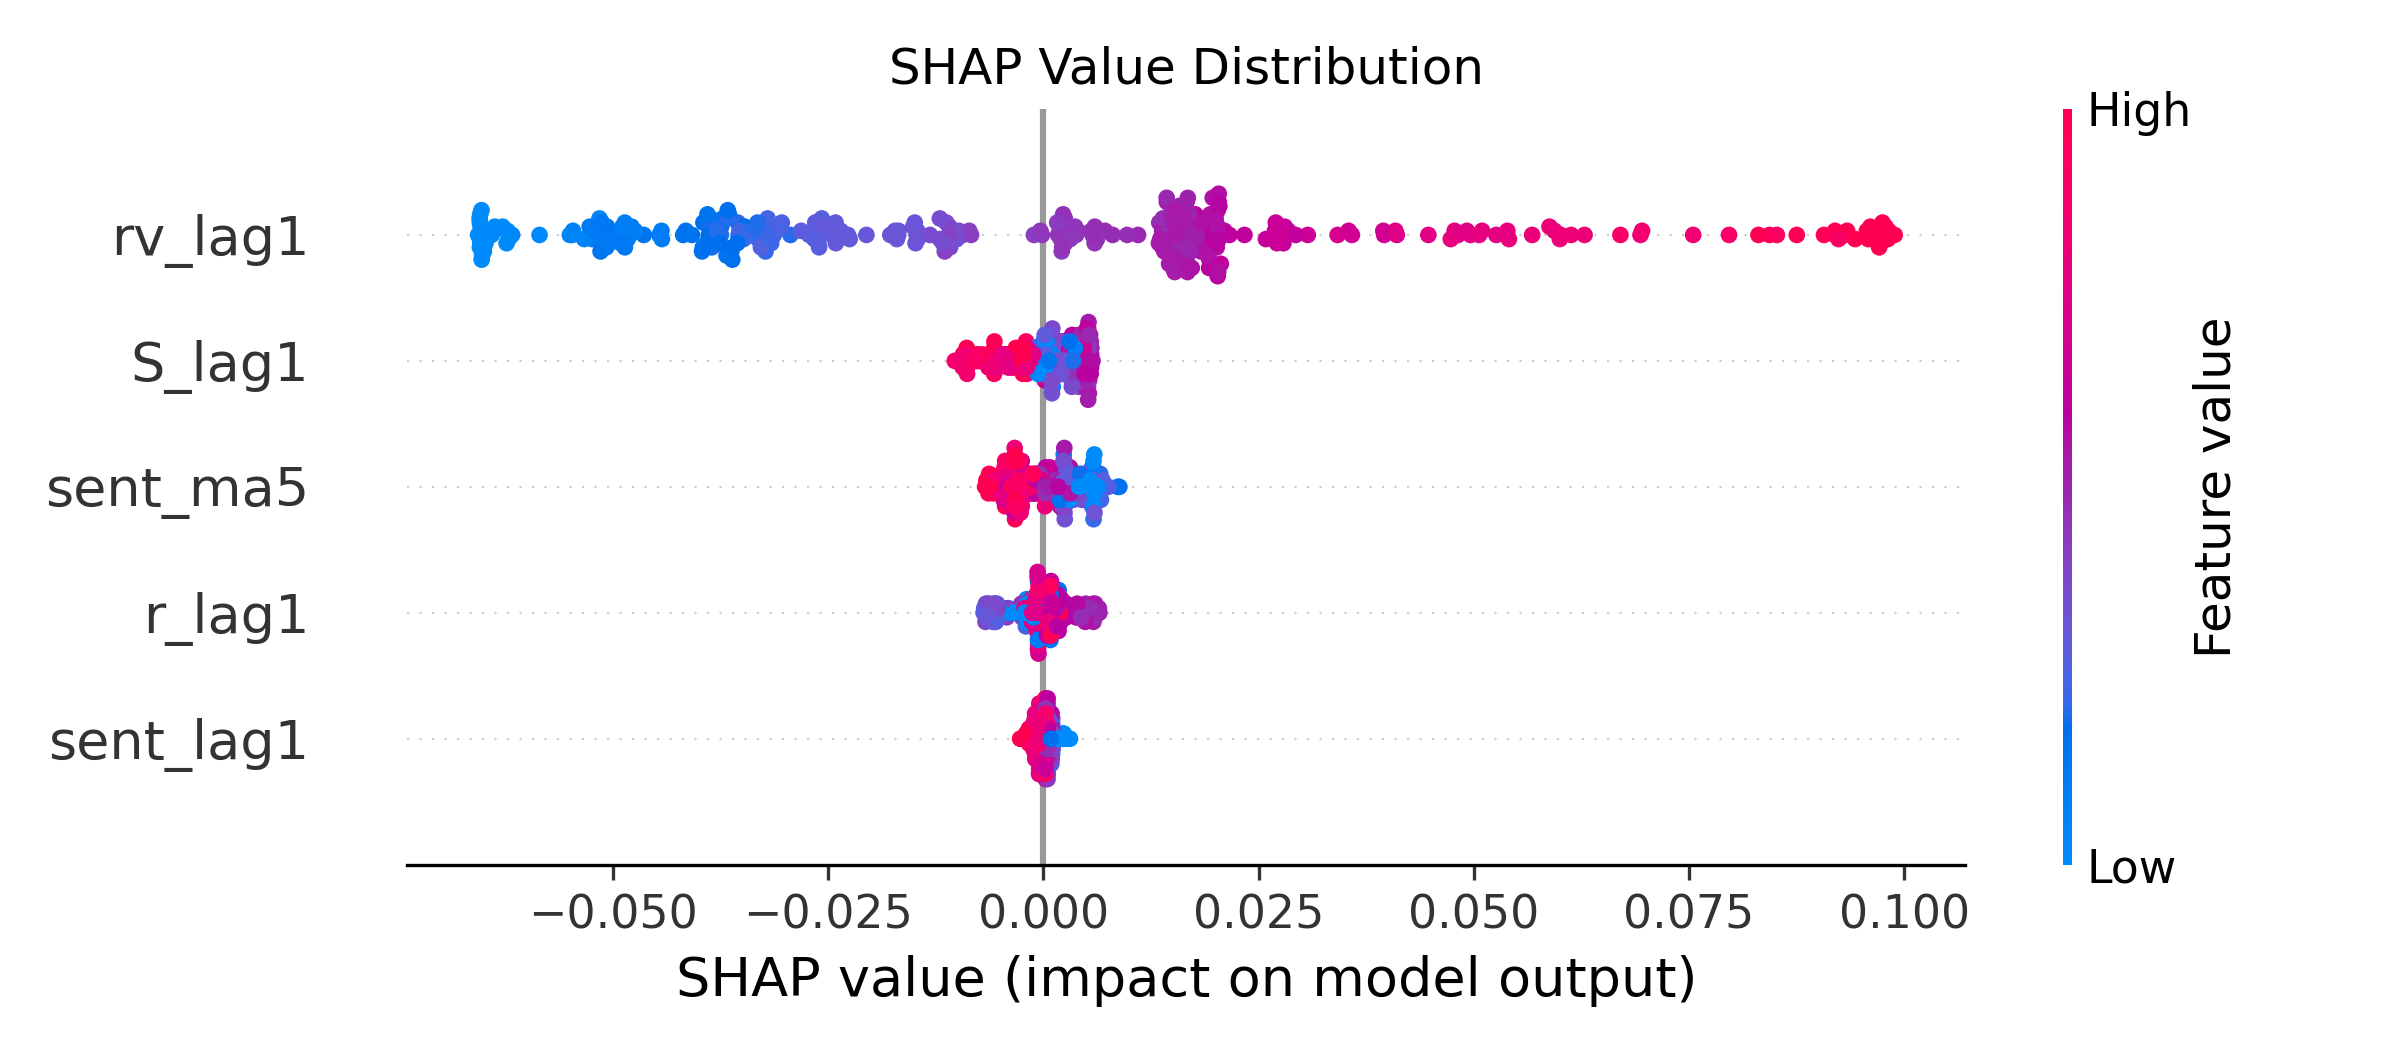
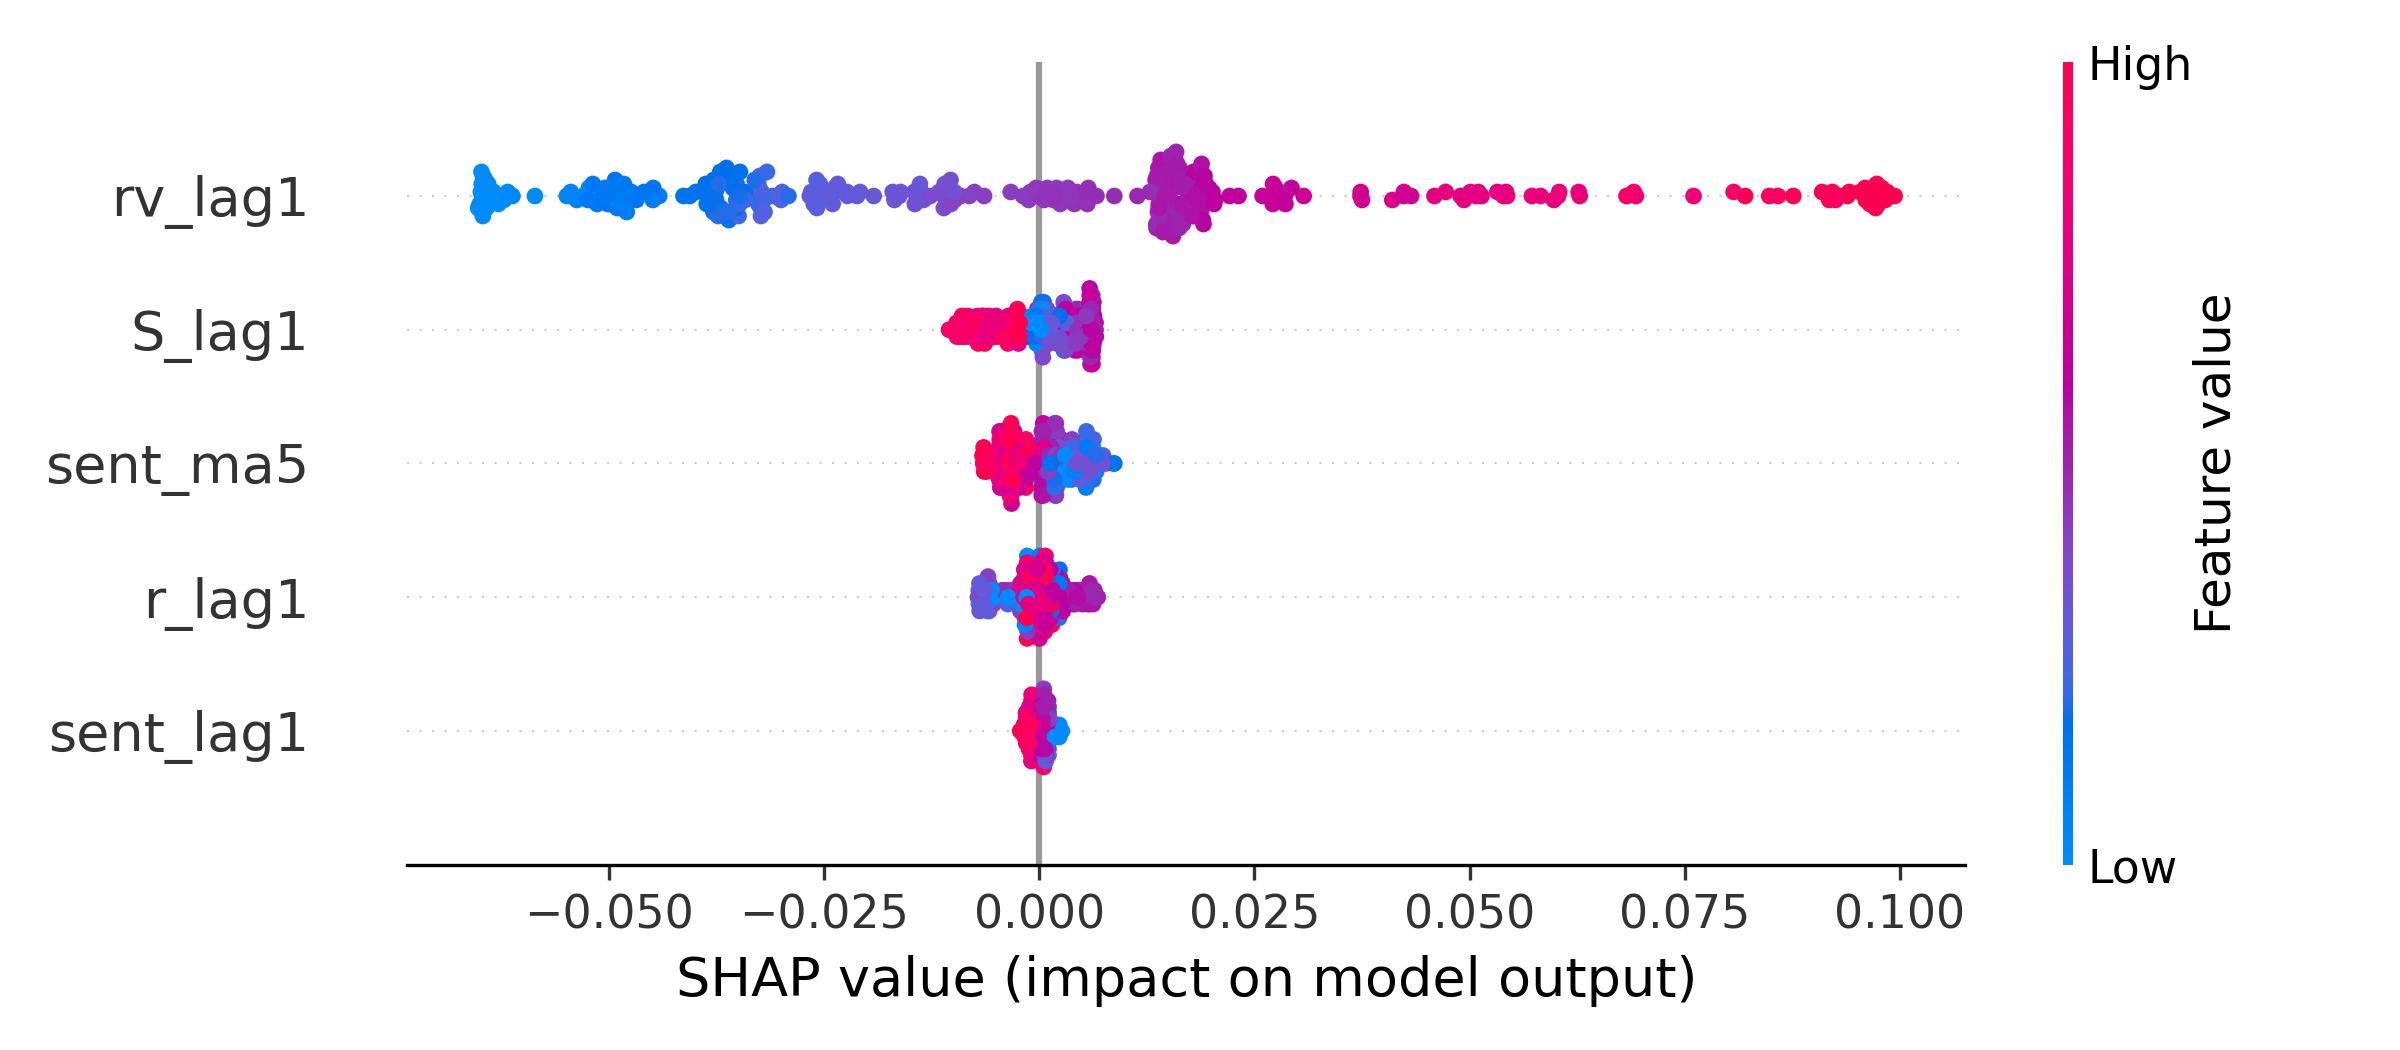
revised wk5-6 and wk7 deliverables

diff --git a/src/machine_learning.py b/src/machine_learning.py
@@ -1,7 +1,5 @@
-# Week 5 & 6 Volatility Forecasting & Forward Option Pricing
 import pandas as pd
 import numpy as np
-import sys
 import os
 import random
 import pickle
@@ -35,7 +33,7 @@ DIR_THRESHOLD = 0.001
 TEST_SIZE = 0.3
 GAP_DAYS = ROLLING_WINDOW
 
-for directory in ["models", "plots", "cv_results", "metadata"]:
+for directory in ["models", "plots", "cv_results", "metadata", "reports"]:
     os.makedirs(directory, exist_ok=True)
 
 df = pd.read_csv("data/processed_data.csv")
@@ -44,6 +42,7 @@ df["date"] = pd.to_datetime(df["date"])
 
 df["rolling_vol"] = df["return"].rolling(ROLLING_WINDOW).std() * np.sqrt(TRADING_DAYS)
 df["target_vol_t1"] = df["rolling_vol"].shift(-1)
+df["rv_lag1"] = df["rolling_vol"].shift(1)
 
 def black_scholes_vec(S, K, T, r, sigma):
     S = np.asarray(S, dtype=float)
@@ -58,8 +57,9 @@ def black_scholes_vec(S, K, T, r, sigma):
     
     return np.where(invalid, np.nan, price)
 
-df["synthetic_oracle_price"] = black_scholes_vec(
-    df["S"], STRIKE, T_MATURITY, df["r"], df["rolling_vol"]
+# 修正：基准BSM价格（历史波动率，非Oracle）
+df["benchmark_bsm_price"] = black_scholes_vec(
+    df["S"], STRIKE, T_MATURITY, df["r"], df["rv_lag1"]
 )
 df = df.dropna().reset_index(drop=True)
 
@@ -148,7 +148,7 @@ imp_df = pd.DataFrame({
 print(imp_df)
 
 print("\nTwo-Step Option Pricing Performance")
-benchmark_prices = df_test['synthetic_oracle_price']
+benchmark_prices = df_test['benchmark_bsm_price']
 predicted_prices = black_scholes_vec(
     df_test["S"], STRIKE, T_MATURITY, df_test["r"], best_base_vol_pred
 )
@@ -156,8 +156,8 @@ pricing_mse = mean_squared_error(benchmark_prices, predicted_prices)
 print(f"Pricing MSE: {pricing_mse:.6f}")
 
 print("\nEnd-to-End Option Pricing Model Performance")
-y_e2e_train = df_train['synthetic_oracle_price']
-y_e2e_test = df_test['synthetic_oracle_price']
+y_e2e_train = df_train['benchmark_bsm_price']
+y_e2e_test = df_test['benchmark_bsm_price']
 
 lr_e2e = LinearRegression()
 lr_e2e.fit(X_train, y_e2e_train)
@@ -202,7 +202,7 @@ xgb_pred = best_xgb.predict(X_test)
 
 S_t1_test = df_test["S"].values
 r_t1_test = df_test["r"].values
-true_price_t1 = df_test["synthetic_oracle_price"].values
+true_price_t1 = df_test["benchmark_bsm_price"].values
 
 def price_forward(S, r, sigma_hat):
     return black_scholes_vec(S, STRIKE, T_MATURITY, r, sigma_hat)
@@ -236,13 +236,11 @@ explainer = shap.TreeExplainer(explainer_model)
 shap_values = explainer.shap_values(X_shap)
 
 shap.summary_plot(shap_values, X_shap, plot_type="bar", show=False)
-plt.title("SHAP Feature Importance")
 plt.tight_layout()
 plt.savefig("plots/shap_importance.png", dpi=300)
 plt.close()
 
 shap.summary_plot(shap_values, X_shap, show=False)
-plt.title("SHAP Value Distribution")
 plt.tight_layout()
 plt.savefig("plots/shap_beeswarm.png", dpi=300)
 plt.close()
@@ -256,6 +254,95 @@ plt.tight_layout()
 plt.savefig("plots/vol_prediction.png", dpi=300)
 plt.close()
 
+# 核心计算
+y_pred_vol = best_predictor.predict(X_test)
+vol_residual = y_test - y_pred_vol
+actual_option_price = df_test["benchmark_bsm_price"]
+ml_option_price = black_scholes_vec(df_test["S"], STRIKE, T_MATURITY, df_test["r"], y_pred_vol)
+price_residual = actual_option_price - ml_option_price
+residual_std = np.std(price_residual, ddof=1)
+price_ci_95 = 1.96 * residual_std
+
+vol_residual_std = np.std(vol_residual, ddof=1)
+vol_ci_95 = 1.96 * vol_residual_std
+
+print("\n======================================================================")
+print("95% CONFIDENCE INTERVAL (Statistical Strict)")
+print("======================================================================")
+print(f"Volatility Forecast 95% CI: ± {vol_ci_95:.4f}")
+print(f"Option ML Price 95% CI:     ± {price_ci_95:.4f}")
+
+# 双定价表
+ci_df = df_test[["date", "S", "r"]].copy()
+ci_df["BSM_Price"] = black_scholes_vec(ci_df["S"], STRIKE, T_MATURITY, ci_df["r"], df_test["rv_lag1"])
+ci_df["ML_Price"] = ml_option_price
+ci_df["ML_Price_95CI_Upper"] = ml_option_price + price_ci_95
+ci_df["ML_Price_95CI_Lower"] = ml_option_price - price_ci_95
+ci_df["Price_Diff"] = ci_df["ML_Price"] - ci_df["BSM_Price"]
+ci_df.round(4).to_csv("reports/dual_pricing_with_95CI.csv", index=False)
+
+# 残差分布图
+plt.figure(figsize=(12,5))
+plt.hist(vol_residual, bins=30, alpha=0.7, color="steelblue", edgecolor="black")
+plt.title("Volatility Forecast Residual Distribution")
+plt.xlabel("Residual")
+plt.ylabel("Frequency")
+plt.tight_layout()
+plt.savefig("plots/vol_residual_hist.png", dpi=300)
+plt.close()
+
+plt.figure(figsize=(12,5))
+plt.hist(price_residual, bins=30, alpha=0.7, color="darkred", edgecolor="black")
+plt.title("Option Pricing Residual Distribution")
+plt.xlabel("Residual")
+plt.ylabel("Frequency")
+plt.tight_layout()
+plt.savefig("plots/price_residual_hist.png", dpi=300)
+plt.close()
+
+# 可视化仪表盘
+plt.figure(figsize=(14,5))
+plt.plot(df_test["date"], y_test, label="Realized Volatility")
+plt.plot(df_test["date"], best_predictor.predict(X_test), label=f"Predicted Vol ({best_model_name})")
+plt.title("Volatility Forecast Dashboard")
+plt.legend()
+plt.tight_layout()
+plt.savefig("plots/vol_forecast_dashboard.png", dpi=300)
+plt.close()
+
+plt.figure(figsize=(14,5))
+plt.plot(ci_df["date"], ci_df["BSM_Price"], label="BSM Price")
+plt.plot(ci_df["date"], ci_df["ML_Price"], label="ML Price")
+plt.title("Option Pricing: Traditional vs ML-Enhanced")
+plt.legend()
+plt.tight_layout()
+plt.savefig("plots/dual_pricing_trend.png", dpi=300)
+plt.close()
+
+# Vega敏感性分析
+vol_test_range = np.linspace(0.05, 0.4, 50)
+sample_S = df_test["S"].iloc[0]
+sample_r = df_test["r"].iloc[0]
+option_values = [black_scholes_vec(sample_S, STRIKE, T_MATURITY, sample_r, v) for v in vol_test_range]
+
+plt.figure(figsize=(10,5))
+plt.plot(vol_test_range, option_values, linewidth=3, color='brown')
+plt.xlabel("Volatility")
+plt.ylabel("Option Price")
+plt.title("Option Price Sensitivity to Volatility (Vega)")
+plt.tight_layout()
+plt.savefig("plots/vol_sensitivity_vega.png", dpi=300)
+plt.close()
+
+gov_df = pd.DataFrame({
+    "Model": ["Linear Regression", "Random Forest", "XGBoost", "Persistence Baseline"],
+    "RMSE": [evaluate(y_test, lr_pred)[2], evaluate(y_test, rf_pred)[2], evaluate(y_test, xgb_pred)[2], naive_metrics[2]],
+    "R2": [evaluate(y_test, lr_pred)[5], evaluate(y_test, rf_pred)[5], evaluate(y_test, xgb_pred)[5], naive_metrics[5]],
+    "Directional_Accuracy": [evaluate(y_test, lr_pred)[4], evaluate(y_test, rf_pred)[4], evaluate(y_test, xgb_pred)[4], naive_metrics[4]]
+}).round(4)
+gov_df.to_csv("reports/model_governance_report.csv", index=False)
+
+# 模型与配置保存
 pickle.dump(best_predictor, open("models/best_model_final.pkl", "wb"))
 
 import sklearn, xgboost
@@ -277,5 +364,3 @@ metadata = {
 }
 with open("metadata/model_metadata.json", "w", encoding="utf-8") as f:
     json.dump(metadata, f, ensure_ascii=False, indent=4)
-
-print("\nAnalysis Completed Successfully")
